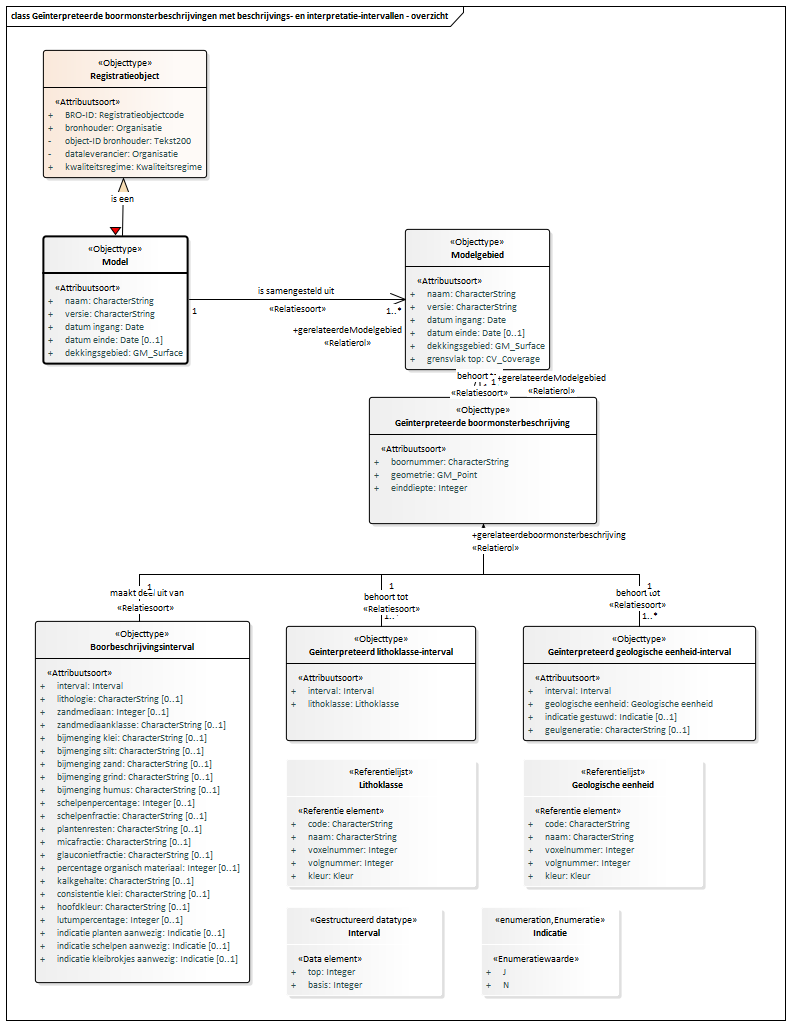
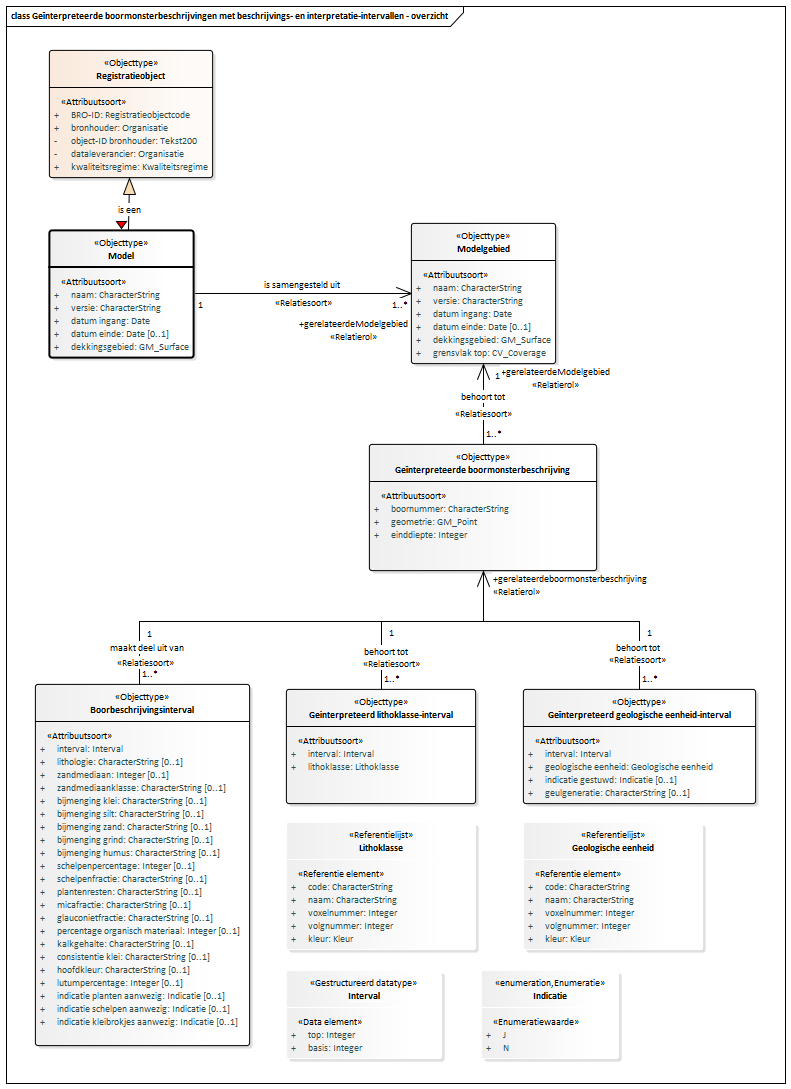
GeoTOP-BROGeoTOP-0.4-1-20180925-20181113-080524

diff --git a/data/GTM-cat.html b/data/GTM-cat.html
@@ -1,38 +1,38 @@
 <h2>Catalogus</h2>
 <p class="note" title="Over deze catalogus">
    Deze catalogus is automatisch samengesteld op basis van het UML model 
-   "BRO: GeoTOP" door Imvertor 1.47.6 op November 12, 2018 at 15:20:28.
+   "BRO: GeoTOP" door Imvertor 1.47.6 op November 13, 2018 at 07:05:22.
    <br>
    Wanneer je technische fouten of onvolkomenheden aantreft, geef dit dan door aan <i></i> en geef de code 
-   <i>"GeoTOP-BROGeoTOP-0.4-1-20180925-20181112-162030"</i> door. 
+   <i>"GeoTOP-BROGeoTOP-0.4-1-20180925-20181113-080524"</i> door. 
    
 </p>
 <div class="imageinfo overview"><img src="data/Images/EAID_7F351635_2E64_440e_B381_9C272D96E4CD.png" usemap="#imagemap-EAID_7F351635_2E64_440e_B381_9C272D96E4CD"><map name="imagemap-EAID_7F351635_2E64_440e_B381_9C272D96E4CD">
-      <area shape="rect" coords="286,996,442,907" alt="" href="#graph_EAID_6C08B5DD_190D_4894_B305_A1A00AB259D1">
-      <area shape="rect" coords="35,983,250,621" alt="" href="#graph_EAID_4AC663AB_4AE7_4cb1_8B12_80354E6178A6">
-      <area shape="rect" coords="481,996,619,907" alt="" href="#graph_EAID_766881C5_2AFD_41fd_A86D_BCF24DD37A20">
-      <area shape="rect" coords="286,887,476,759" alt="" href="#graph_EAID_48AE86B5_4DD3_44c5_B4CA_CE46C61DC0DD">
-      <area shape="rect" coords="286,741,476,626" alt="" href="#graph_EAID_8257A583_DA5A_4cb7_8285_C7AE2A1EE126">
-      <area shape="rect" coords="369,524,597,397" alt="" href="#graph_EAID_13ACBEB4_197A_469b_A941_120C476F863B">
-      <area shape="rect" coords="43,364,188,236" alt="" href="#graph_EAID_BDFBB7D9_5E75_4ae6_B54C_77E0F39751FA">
-      <area shape="rect" coords="405,370,550,229" alt="" href="#graph_EAID_B2FFFC7A_A816_4eeb_B88F_CE3AE19010F5">
-      <area shape="rect" coords="523,887,703,759" alt="" href="#graph_EAID_E2C03310_71E6_4a43_90B1_C3E4EEFCF1F6">
-      <area shape="rect" coords="523,741,756,626" alt="" href="#graph_EAID_7EED5B54_652D_4235_A001_DFD5D771BB7A"></map><p><b>Geïnterpreteerde boormonsterbeschrijvingen met beschrijvings- en interpretatie-intervallen
+      <area shape="rect" coords="286,1059,442,970" alt="" href="#graph_EAID_6C08B5DD_190D_4894_B305_A1A00AB259D1">
+      <area shape="rect" coords="35,1046,250,684" alt="" href="#graph_EAID_4AC663AB_4AE7_4cb1_8B12_80354E6178A6">
+      <area shape="rect" coords="481,1059,619,970" alt="" href="#graph_EAID_766881C5_2AFD_41fd_A86D_BCF24DD37A20">
+      <area shape="rect" coords="286,950,476,822" alt="" href="#graph_EAID_48AE86B5_4DD3_44c5_B4CA_CE46C61DC0DD">
+      <area shape="rect" coords="286,804,476,689" alt="" href="#graph_EAID_8257A583_DA5A_4cb7_8285_C7AE2A1EE126">
+      <area shape="rect" coords="369,571,597,444" alt="" href="#graph_EAID_13ACBEB4_197A_469b_A941_120C476F863B">
+      <area shape="rect" coords="49,358,194,230" alt="" href="#graph_EAID_BDFBB7D9_5E75_4ae6_B54C_77E0F39751FA">
+      <area shape="rect" coords="411,364,556,223" alt="" href="#graph_EAID_B2FFFC7A_A816_4eeb_B88F_CE3AE19010F5">
+      <area shape="rect" coords="523,950,703,822" alt="" href="#graph_EAID_E2C03310_71E6_4a43_90B1_C3E4EEFCF1F6">
+      <area shape="rect" coords="523,804,756,689" alt="" href="#graph_EAID_7EED5B54_652D_4235_A001_DFD5D771BB7A"></map><p><b>Geïnterpreteerde boormonsterbeschrijvingen met beschrijvings- en interpretatie-intervallen
          - overzicht</b></p>
 </div>
 <div class="imageinfo overview"><img src="data/Images/EAID_DB3BCFBA_AD0C_46a8_94E8_835914482E55.png" usemap="#imagemap-EAID_DB3BCFBA_AD0C_46a8_94E8_835914482E55"><map name="imagemap-EAID_DB3BCFBA_AD0C_46a8_94E8_835914482E55">
       <area shape="rect" coords="281,820,441,718" alt="" href="#graph_EAID_E63AD532_E801_4bdf_BFDF_CF1398C683EA">
       <area shape="rect" coords="35,365,182,221" alt="" href="#graph_EAID_BDFBB7D9_5E75_4ae6_B54C_77E0F39751FA">
-      <area shape="rect" coords="281,689,520,440" alt="" href="#graph_EAID_44B3CBF9_7FA8_4c3d_BFF6_F1C2DDF0FC4A">
-      <area shape="rect" coords="328,355,473,214" alt="" href="#graph_EAID_B2FFFC7A_A816_4eeb_B88F_CE3AE19010F5">
+      <area shape="rect" coords="304,688,543,439" alt="" href="#graph_EAID_44B3CBF9_7FA8_4c3d_BFF6_F1C2DDF0FC4A">
+      <area shape="rect" coords="359,363,504,222" alt="" href="#graph_EAID_B2FFFC7A_A816_4eeb_B88F_CE3AE19010F5">
       <area shape="rect" coords="67,732,237,604" alt="" href="#graph_EAID_48AE86B5_4DD3_44c5_B4CA_CE46C61DC0DD">
       <area shape="rect" coords="67,580,247,452" alt="" href="#graph_EAID_E2C03310_71E6_4a43_90B1_C3E4EEFCF1F6"></map><p><b>Voxelmodel - overzicht</b></p>
 </div>
 <div class="imageinfo overview"><img src="data/Images/EAID_9F03ACCD_4D42_42b2_A78F_2C27719811BF.png" usemap="#imagemap-EAID_9F03ACCD_4D42_42b2_A78F_2C27719811BF"><map name="imagemap-EAID_9F03ACCD_4D42_42b2_A78F_2C27719811BF">
-      <area shape="rect" coords="44,397,191,253" alt="" href="#graph_EAID_BDFBB7D9_5E75_4ae6_B54C_77E0F39751FA">
-      <area shape="rect" coords="556,522,709,433" alt="" href="#graph_EAID_4F3FFCB7_14BD_490a_B73E_06CF975E44EC">
-      <area shape="rect" coords="296,574,529,433" alt="" href="#graph_EAID_B1D7A0F7_E3FF_43e8_B96B_FAE820D6B006">
-      <area shape="rect" coords="340,396,485,255" alt="" href="#graph_EAID_B2FFFC7A_A816_4eeb_B88F_CE3AE19010F5"></map><p><b>Lagenmodel - overzicht</b></p>
+      <area shape="rect" coords="44,382,191,238" alt="" href="#graph_EAID_BDFBB7D9_5E75_4ae6_B54C_77E0F39751FA">
+      <area shape="rect" coords="115,545,268,456" alt="" href="#graph_EAID_4F3FFCB7_14BD_490a_B73E_06CF975E44EC">
+      <area shape="rect" coords="295,590,528,449" alt="" href="#graph_EAID_B1D7A0F7_E3FF_43e8_B96B_FAE820D6B006">
+      <area shape="rect" coords="340,381,485,240" alt="" href="#graph_EAID_B2FFFC7A_A816_4eeb_B88F_CE3AE19010F5"></map><p><b>Lagenmodel - overzicht</b></p>
 </div>
 <section id="">
    <h3>Objecttypen </h3>
